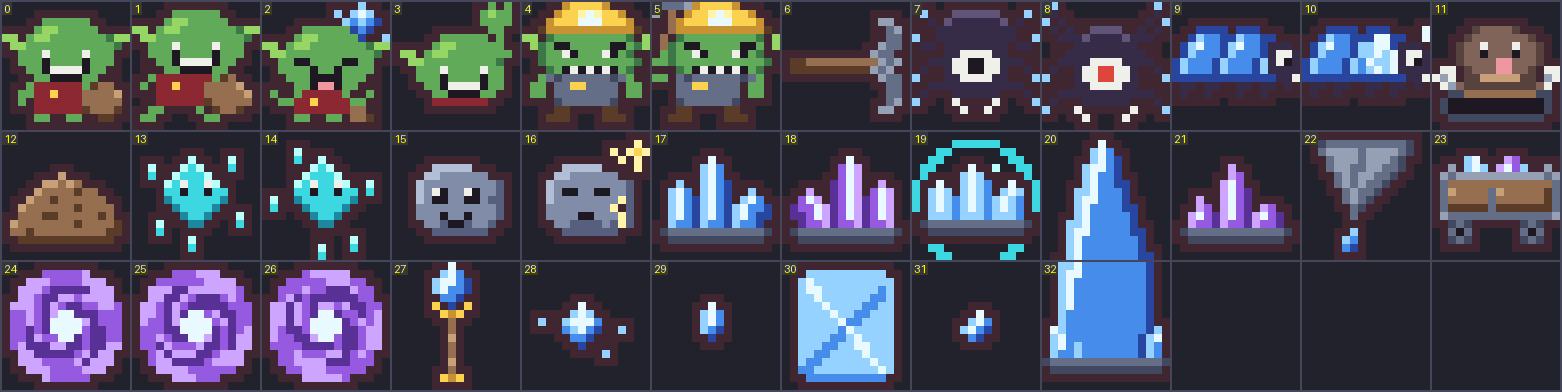
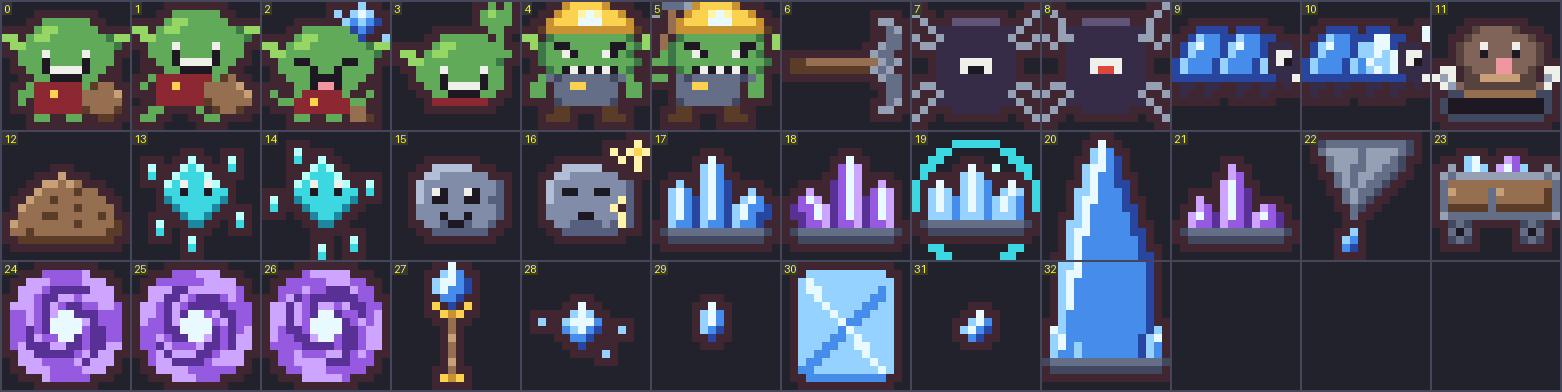
Smooth the Crystal Mines after a full play-through
A real run from Nab's chase to Bert's results screen turned up rough
edges a child would trip on: Nab's gate now stays open 10s; Bert's
phase-3 warning is one clear, thick lane that pulses before firing
(one bounce instead of three faint criss-crossing lines); Goblin
Miners are capped at three alive and spread out instead of stacking;
the Rock Mole always surfaces within 4s instead of idling under a
standing player; cave bats hit a little softer so room 1 matches the
palace's opening, with room 4 carrying the difficulty instead; and the
Hookjaw Spider is redrawn with legs so it reads as a spider.

Changed region(s): [[0.5839, 0.0, 0.7682, 0.3367]]

diff --git a/src/entities/bert/BertDraw.ts b/src/entities/bert/BertDraw.ts
@@ -1,6 +1,8 @@
 import Phaser from 'phaser';
 import { bertTuning } from '../../content/bert';
 import type { Point } from '../../logic/geometry';
+import { laserTelegraphAlpha } from '../../logic/laserTelegraph';
+import { feel } from '../../systems/feel';
 
 const WARN = 0xff2a2a;
 const WARN_EDGE = 0xff5a5a;
@@ -37,13 +39,22 @@ const trace = (g: Phaser.GameObjects.Graphics, path: readonly Point[]): void => 
   g.strokePath();
 };
 
-/** The thin pulsing line that shows the laser's whole bouncing path before it fires. */
-export function drawLaserLine(scene: Phaser.Scene, path: readonly Point[], windupMs: number): Shape[] {
-  const line = scene.add.graphics().setDepth(3);
-  line.lineStyle(1.5, LASER, 0.9);
-  trace(line, path);
-  scene.tweens.add({ targets: line, alpha: { from: 0.35, to: 1 }, duration: Math.max(120, windupMs / 6), yoyo: true, repeat: -1 });
-  return [line];
+/** The one upcoming shot: a clear lane exactly as wide as the damage corridor with a bright core, calm at first and pulsing brighter just before it fires. */
+export function drawLaserLine(scene: Phaser.Scene, path: readonly Point[], windupMs: number, laneWidth: number): Shape[] {
+  const lane = scene.add.graphics().setDepth(3);
+  lane.lineStyle(laneWidth, LASER, 0.5);
+  trace(lane, path);
+  const core = scene.add.graphics().setDepth(3.1);
+  core.lineStyle(2, 0xffe0e6, 1);
+  trace(core, path);
+  const set = (elapsed: number): void => {
+    const a = laserTelegraphAlpha(elapsed, windupMs, feel.reduced);
+    lane.setAlpha(a);
+    core.setAlpha(Math.min(1, a + 0.15));
+  };
+  set(0);
+  const timer = scene.tweens.addCounter({ from: 0, to: windupMs, duration: windupMs, onUpdate: (t) => set(t.getValue() ?? 0) });
+  return [lane, core, { destroy: () => timer.stop() } as unknown as Shape];
 }
 
 /** The beam itself: a glowing wide stroke with a white core, fading out. */

diff --git a/src/entities/behaviours/miner.ts b/src/entities/behaviours/miner.ts
@@ -1,6 +1,7 @@
 import { MinesFrame, Tex } from '../../content/assetKeys';
 import { launchBlade, HitOnce, stepBlade, type BladeState } from '../../logic/boomerang';
 import { damageToPlayer } from '../../logic/combat';
+import { separationPush } from '../../logic/separation';
 import { actStale } from '../../logic/spiderTether';
 import { feel } from '../../systems/feel';
 import { playSfx } from '../../systems/sfx';
@@ -17,9 +18,11 @@ const NEAR = 70;
 const FAR = 120;
 const SPIN = 0.5;
 const WINDUP_TINT = 0xffffff;
+const SEPARATION = 44;
 
 /** Keeps a little distance and, after a visible wind-up (the arm goes back), throws a pickaxe that flies out, turns round and comes back to him; it can hit you both ways. */
-export const miner: BehaviourFactory = (host) => {
+export const miner: BehaviourFactory = (host, world) => {
+  const phase = Math.random() * Math.PI * 2;
   let nextThrowAt = host.clock.now + 1200 + Math.random() * 1200;
   let windupUntil = 0;
   let aim = { x: 1, y: 0 };
@@ -71,7 +74,10 @@ export const miner: BehaviourFactory = (host) => {
       else if (distance < NEAR) {
         const d = directionTo(host, host.target);
         host.setVelocity(-d.x * speed, -d.y * speed);
-      } else goToward(host, { x: host.x + Math.cos(time / 700), y: host.y + Math.sin(time / 700) }, speed * 0.4);
+      } else goToward(host, { x: host.x + Math.cos(time / 700 + phase), y: host.y + Math.sin(time / 700 + phase) }, speed * 0.4);
+      const mates = world.all().filter((e) => e !== host && e.def.id === host.def.id);
+      const push = separationPush(host, mates, SEPARATION, phase);
+      if (push.x !== 0 || push.y !== 0) host.setVelocity(host.body!.velocity.x + push.x * speed * 1.4, host.body!.velocity.y + push.y * speed * 1.4);
     },
     update(time) {
       if (windupUntil > 0 && (host.stunned || actStale(host.clock.now, lastActAt))) {

diff --git a/tests/laserTelegraph.test.ts b/tests/laserTelegraph.test.ts
@@ -1,0 +1,36 @@
+import { describe, expect, it } from 'vitest';
+import { laserTelegraphAlpha } from '../src/logic/laserTelegraph';
+
+describe('laserTelegraphAlpha', () => {
+  const wind = 1400;
+  it('starts clear but calm and ends at full brightness', () => {
+    expect(laserTelegraphAlpha(0, wind, false)).toBeGreaterThanOrEqual(0.4);
+    expect(laserTelegraphAlpha(0, wind, false)).toBeLessThan(0.6);
+    expect(laserTelegraphAlpha(wind, wind, false)).toBe(1);
+  });
+  it('is brighter in the last moments than early on, whatever the pulse phase', () => {
+    for (let t = 0; t < 300; t += 25) expect(laserTelegraphAlpha(wind - 250 + t / 2, wind, false)).toBeGreaterThan(laserTelegraphAlpha(t, wind, false));
+  });
+  it('pulses just before firing', () => {
+    const samples = Array.from({ length: 20 }, (_, i) => laserTelegraphAlpha(wind - 400 + i * 20, wind, false));
+    expect(Math.max(...samples) - Math.min(...samples)).toBeGreaterThan(0.15);
+  });
+  it('does not flicker when flashes are reduced: only a smooth rise', () => {
+    let last = 0;
+    for (let t = 0; t <= wind; t += 20) {
+      const a = laserTelegraphAlpha(t, wind, true);
+      expect(a).toBeGreaterThanOrEqual(last);
+      last = a;
+    }
+    expect(last).toBeLessThanOrEqual(0.95);
+  });
+  it('stays within 0-1 for any time', () => {
+    for (const t of [-50, 0, 700, 1399, 1400, 5000]) {
+      for (const reduced of [true, false]) {
+        const a = laserTelegraphAlpha(t, wind, reduced);
+        expect(a).toBeGreaterThanOrEqual(0);
+        expect(a).toBeLessThanOrEqual(1);
+      }
+    }
+  });
+});

diff --git a/tests/desertMonsters.test.ts b/tests/desertMonsters.test.ts
@@ -36,6 +36,32 @@ describe('sand shark', () => {
   });
 });
 
+describe('rock mole', () => {
+  const mole: SharkTuning = { underMinMs: 1800, underMaxMs: 4000, leapRange: 120, riseMs: 800, leapMs: 300, leapSpeed: 0, exposedMs: 1900 };
+  const surfacings = (distance: number, to: number): number[] => {
+    let state = newShark(0);
+    return eventsOver((now) => {
+      const step = stepShark(state, now, distance, mole);
+      state = step.state;
+      return step.event;
+    }, 0, to)
+      .filter((e) => e.event === 'rise')
+      .map((e) => e.at);
+  };
+
+  it('surfaces within about two seconds of being under a player who stands still, over and over', () => {
+    const rises = surfacings(0, 30_000);
+    expect(rises.length).toBeGreaterThanOrEqual(5);
+    rises.forEach((at, i) => expect(at - (i === 0 ? 0 : rises[i - 1]! + 800 + 300 + 1900)).toBeLessThanOrEqual(2000));
+  });
+
+  it('never idles underneath forever, even with nobody in range', () => {
+    const rises = surfacings(500, 30_000);
+    expect(rises[0]).toBeLessThanOrEqual(4100);
+    expect(rises.length).toBeGreaterThanOrEqual(3);
+  });
+});
+
 describe('fire imp trail', () => {
   it('drops flames only after moving far enough, caps the count and burns out', () => {
     const trail = new FireTrail({ ttlMs: 2000, spacing: 10, max: 3 });

diff --git a/tests/separation.test.ts b/tests/separation.test.ts
@@ -1,0 +1,28 @@
+import { describe, expect, it } from 'vitest';
+import { separationPush } from '../src/logic/separation';
+
+describe('separationPush', () => {
+  it('is zero with nobody close', () => {
+    expect(separationPush({ x: 0, y: 0 }, [{ x: 100, y: 0 }], 40)).toEqual({ x: 0, y: 0 });
+  });
+  it.each([
+    [{ x: 10, y: 0 }, -1, 0],
+    [{ x: -10, y: 0 }, 1, 0],
+    [{ x: 0, y: 10 }, 0, -1],
+  ])('pushes away from a neighbour at %j', (other, x, y) => {
+    const p = separationPush({ x: 0, y: 0 }, [other], 40);
+    expect(Math.sign(p.x) || 0).toBe(x);
+    expect(Math.sign(p.y) || 0).toBe(y);
+  });
+  it('is stronger the closer the neighbour is, and never longer than 1', () => {
+    const near = separationPush({ x: 0, y: 0 }, [{ x: 5, y: 0 }], 40);
+    const far = separationPush({ x: 0, y: 0 }, [{ x: 30, y: 0 }], 40);
+    expect(Math.hypot(near.x, near.y)).toBeGreaterThan(Math.hypot(far.x, far.y));
+    const crowd = separationPush({ x: 0, y: 0 }, Array.from({ length: 6 }, () => ({ x: 1, y: 0 })), 40);
+    expect(Math.hypot(crowd.x, crowd.y)).toBeLessThanOrEqual(1);
+  });
+  it('splits stacked monsters apart instead of returning zero', () => {
+    const p = separationPush({ x: 0, y: 0 }, [{ x: 0, y: 0 }], 40, 0.7);
+    expect(Math.hypot(p.x, p.y)).toBeGreaterThan(0);
+  });
+});

diff --git a/src/logic/shark.ts b/src/logic/shark.ts
@@ -2,6 +2,8 @@ export interface SharkTuning {
   /** Swims at least this long before it may surface. */
   underMinMs: number;
   leapRange: number;
+  /** Surfaces after this long underneath even with nobody in range, so it never idles below forever. */
+  underMaxMs?: number;
   /** Warning pause before the leap. */
   riseMs: number;
   leapMs: number;
@@ -29,7 +31,8 @@ export const leapLaneLength = (t: SharkTuning): number => (t.leapSpeed * t.leapM
 /** Swim under the sand, rise with a warning once close, leap in a straight line, lie exposed, dive again. */
 export function stepShark(state: SharkState, now: number, distance: number, t: SharkTuning): { state: SharkState; event: SharkEvent | null } {
   if (state.phase === 'under') {
-    if (now - state.since < t.underMinMs || distance > t.leapRange) return { state, event: null };
+    const overdue = t.underMaxMs !== undefined && now - state.since >= t.underMaxMs;
+    if (now - state.since < t.underMinMs || (distance > t.leapRange && !overdue)) return { state, event: null };
     return { state: { phase: 'rise', since: now, until: now + t.riseMs }, event: 'rise' };
   }
   if (now < state.until) return { state, event: null };

diff --git a/src/entities/behaviours/mole.ts b/src/entities/behaviours/mole.ts
@@ -8,7 +8,7 @@ import { distanceTo, goToward, stand } from './steer';
 import type { BehaviourFactory } from './types';
 
 /** The mole's "leap" is a pop straight up where it stopped, so it does not move (speed 0); the rise is the dirt-mound warning. */
-const TUNING: SharkTuning = { underMinMs: 1800, leapRange: 120, riseMs: 800, leapMs: 300, leapSpeed: 0, exposedMs: 1900 };
+const TUNING: SharkTuning = { underMinMs: 1800, underMaxMs: 4000, leapRange: 120, riseMs: 800, leapMs: 300, leapSpeed: 0, exposedMs: 1900 };
 const TRACK_SHARE = 0.55;
 const TRACK_SPEED = 150;
 const POP_RADIUS = 20;
@@ -77,7 +77,7 @@ export const mole: BehaviourFactory = (host, world) => {
       }
       if (step.event === 'leap') pop();
       if (step.event === 'dive') dive();
-      if (state.phase === 'under') host.chase(time);
+      if (state.phase === 'under') host.chase(time, host.def.speed, distanceTo(host, host.target) > TUNING.leapRange * 1.5);
       else if (state.phase === 'rise' && time - state.since < TUNING.riseMs * TRACK_SHARE) goToward(host, host.target, TRACK_SPEED * host.speedFactor);
       else stand(host);
       if (state.phase === 'exposed') host.setFlipX(host.target.x < host.x);

diff --git a/src/logic/separation.ts b/src/logic/separation.ts
@@ -1,0 +1,23 @@
+import type { Point } from './geometry';
+
+/** A push of length 0-1 away from neighbours inside `radius`, stronger the closer they are; monsters standing on the same spot split along `fallbackAngle`. */
+export function separationPush(self: Point, others: readonly Point[], radius: number, fallbackAngle = 0): Point {
+  let x = 0;
+  let y = 0;
+  for (const o of others) {
+    const dx = self.x - o.x;
+    const dy = self.y - o.y;
+    const d = Math.hypot(dx, dy);
+    if (d >= radius) continue;
+    const strength = 1 - d / radius;
+    if (d < 0.001) {
+      x += Math.cos(fallbackAngle) * strength;
+      y += Math.sin(fallbackAngle) * strength;
+    } else {
+      x += (dx / d) * strength;
+      y += (dy / d) * strength;
+    }
+  }
+  const length = Math.hypot(x, y);
+  return length > 1 ? { x: x / length, y: y / length } : { x, y };
+}

diff --git a/src/logic/laserTelegraph.ts b/src/logic/laserTelegraph.ts
@@ -1,0 +1,14 @@
+const BASE = 0.45;
+const PULSE_MS = 450;
+const PULSE_PERIOD_MS = 90;
+
+/** How bright the laser's warning line is `elapsedMs` into its wind-up: calm and clear, then it pulses brighter just before firing (a smooth rise only when flashes are reduced). */
+export function laserTelegraphAlpha(elapsedMs: number, windupMs: number, reduced: boolean): number {
+  const left = windupMs - Math.max(0, elapsedMs);
+  const ramp = Math.min(1, Math.max(0, 1 - left / PULSE_MS));
+  if (left <= 0) return reduced ? 0.9 : 1;
+  if (reduced) return BASE + (0.9 - BASE) * Math.min(1, Math.max(0, elapsedMs / windupMs));
+  const floor = BASE + (0.8 - BASE) * ramp;
+  const wave = (Math.sin((left / PULSE_PERIOD_MS) * Math.PI * 2) + 1) / 2;
+  return ramp === 0 ? BASE : floor + (1 - floor) * wave * ramp;
+}

diff --git a/src/entities/Bert.ts b/src/entities/Bert.ts
@@ -367,7 +367,7 @@ export class Bert extends Enemy {
     const dir = new Phaser.Math.Vector2(this.target.x - this.x, this.target.y - this.y);
     if (dir.lengthSq() < 1e-6) dir.set(1, 0);
     this.laserPath = bouncePath(this.arena, { x: this.x, y: this.y }, dir.normalize(), bounces);
-    this.shapes.push(...drawLaserLine(this.scene, this.laserPath, ms));
+    this.shapes.push(...drawLaserLine(this.scene, this.laserPath, ms, bertTuning.laserWidth + 2 * LASER_CORRIDOR_PAD));
     playSfx(this.scene, 'enemyShot', { rate: 0.5, volume: 1.5 });
   }
 

diff --git a/src/content/bert.ts b/src/content/bert.ts
@@ -27,7 +27,7 @@ export const bertBrain: BertBrainConfig = {
     3: {
       speedMultiplier: 1.25,
       attacks: [
-        { kind: 'laser', firstMs: 2500, cooldownMs: 4200, windupMs: 1400, fireMs: 350, bounces: 3, volleys: 2, followUpWindupMs: 1000 },
+        { kind: 'laser', firstMs: 2500, cooldownMs: 4200, windupMs: 1400, fireMs: 350, bounces: 1, volleys: 2, followUpWindupMs: 1000 },
         { kind: 'roll', firstMs: 9000, cooldownMs: 11_000, windupMs: 1200, bounces: 2, speed: 180, maxMs: 8000 },
       ],
     },

diff --git a/src/content/monsters.ts b/src/content/monsters.ts
@@ -366,7 +366,7 @@ export const caveBat: EnemyDef = {
   frame: Frame.bat,
   tint: 0xa898ff,
   baseHp: 12,
-  baseDamage: 7,
+  baseDamage: 6,
   speed: 78,
   behaviour: 'erratic',
   lootTableId: 'caveBat',
@@ -395,6 +395,8 @@ export const goblinMiner: EnemyDef = {
   cost: 1,
   placement: 'back',
   tip: 'Throws a pickaxe that comes back like a boomerang.',
+  maxPerWave: 3,
+  maxAlive: 3,
 };
 export const crystalBeetle: EnemyDef = {
   id: 'crystalBeetle',
